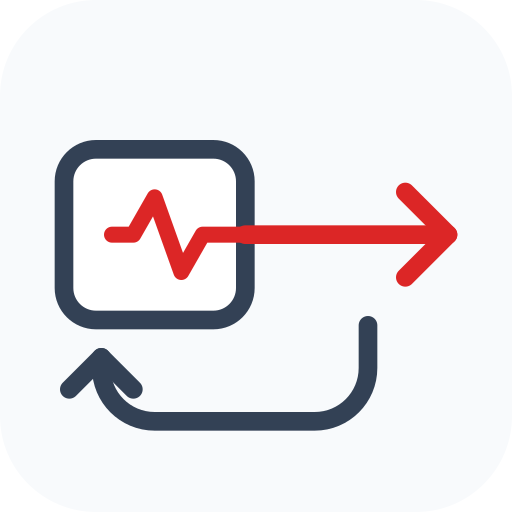
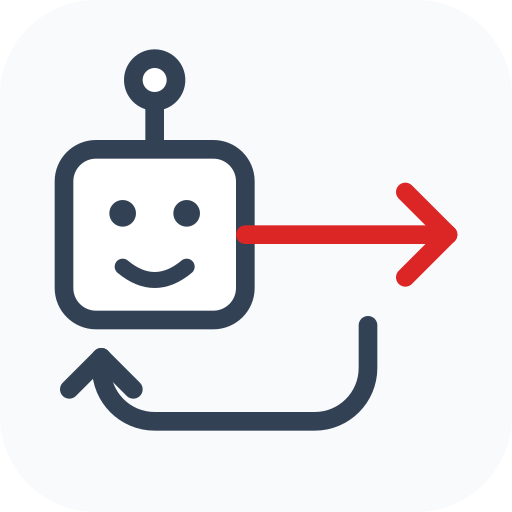
docs: add an agent motif and clarify update procedures [skip ci]

Changed region(s): [[0.1875, 0.3438, 0.4688, 0.5625], [0.2188, 0.0938, 0.375, 0.2812]]

diff --git a/docs/publishing.html b/docs/publishing.html
@@ -11,19 +11,45 @@ Current version: 0.2.1. No production service is activated by publication.</p>
 <p>Use the repository's <code>pypi</code> environment to restrict release access. Authentication uses
 GitHub OIDC and PyPI Trusted Publishing; no long-lived PyPI API token belongs in this repository.
 See the <a href="https://docs.pypi.org/trusted-publishers/creating-a-project-through-oidc/">official PyPI setup</a>.</p>
-<h2>Release</h2><p>Publish experiment-core before LDCon. LDCon pins the verified compatible core version.
-Update package metadata and the LDCon CI core tag together for a future version.</p>
-<pre>python -m build
-python -m twine check --strict dist/*
-python scripts/check_dist.py dist
+<h2>Updating an installation</h2>
+<p>In the virtual environment used for the installation:</p>
+<pre>python -m pip install --upgrade "ldcon[web,instruments,analysis,agents]"
+python -m pip check</pre>
+<p>This selects the latest LDCon release and its declared compatible dependencies. LDCon pins
+experiment-core and fanharvard-agentbridge versions, so independent updates to those projects are
+adopted when the LDCon dependency pins are updated. For standalone use, update either with
+<code>python -m pip install --upgrade experiment-core</code> or
+<code>python -m pip install --upgrade fanharvard-agentbridge</code>.</p>
+<p>Updating a Python environment does not promote an immutable production release or restart a service.
+The existing production installation uses its separate deployment and handover procedure.</p>
+<h2>Updating GitHub</h2>
+<p>Edit the public checkout, commit reviewed files and push to <code>main</code>. README and icon changes
+are visible on GitHub after the push; they do not require a PyPI version bump. The icon source is
+<code>docs/icon.svg</code>; regenerate its PNG with:</p>
+<pre>rsvg-convert --width 512 --height 512 --output docs/icon.png docs/icon.svg</pre>
+<p>The public checkout was split from the internal deployment repository. They do not synchronize
+automatically. Port reviewed source changes and test fixtures explicitly; export deployment
+configurations as disabled, sanitized examples. Preserve the public packaging metadata and exclude
+credentials, inboxes and runtime state instead of copying the full deployment directory or its Git history.</p>
+<h2>Publishing a new PyPI version</h2><p>Change <code>project.version</code> in <code>pyproject.toml</code>
+to a new, unused version. Publish updated experiment-core or agentbridge dependencies first if needed.
+When changing the experiment-core pin, update its checkout tag in both CI and release workflows too.</p>
+<p>From a development environment with the build, test and role dependencies installed, build into an
+empty directory so old distributions cannot be uploaded accidentally:</p>
+<pre>release_dir=$(mktemp -d)
+python -m build --outdir "$release_dir"
+python -m twine check --strict "$release_dir"/*
+python scripts/check_dist.py "$release_dir"
 python scripts/check_secrets.py
+python -m pip install --force-reinstall --no-deps "$release_dir"/*.whl
 python -m pytest -q
-git tag v0.2.1
-git push origin v0.2.1</pre>
-<p>Create a GitHub Release for the tag to run <code>release.yml</code>, or dispatch that workflow at
-the tag. The workflow checks the tag against package metadata, builds and audits distributions,
+python -m pip check</pre>
+<p>Commit and push the reviewed changes. After CI succeeds, create a tag matching the new version
+(<code>vX.Y.Z</code>) and publish a GitHub Release for it. That runs <code>release.yml</code>; alternatively
+dispatch that workflow at the tag. The workflow checks the tag against package metadata, builds and audits distributions,
 tests the wheel, and publishes through the dedicated environment. Do not reuse an uploaded PyPI version.
-The CI workflow also checks Python 3.10, 3.12 and 3.13.</p>
+The CI workflow also checks Python 3.10, 3.12 and 3.13. An existing PyPI release's embedded README
+changes only with a new package version; a GitHub push alone does not replace it.</p>
 <h2>Public/private boundary</h2><p>Public: source, tests, documentation, MIT license and reviewed examples.
 Private: credentials, .env/.pypirc files, runtime databases, job logs, agent conversations,
 approval receipts, local deployment history and live service configuration. New public repositories

diff --git a/README.md b/README.md
@@ -1,4 +1,4 @@
-<img src="https://raw.githubusercontent.com/FanHarvard/ldcon/main/docs/icon.png" alt="LDCon: laser beam and a feedback loop" width="64" height="64">
+<img src="https://raw.githubusercontent.com/FanHarvard/ldcon/main/docs/icon.png" alt="LDCon: an agent guiding a laser feedback loop" width="64" height="64">
 
 # LDCon
 
